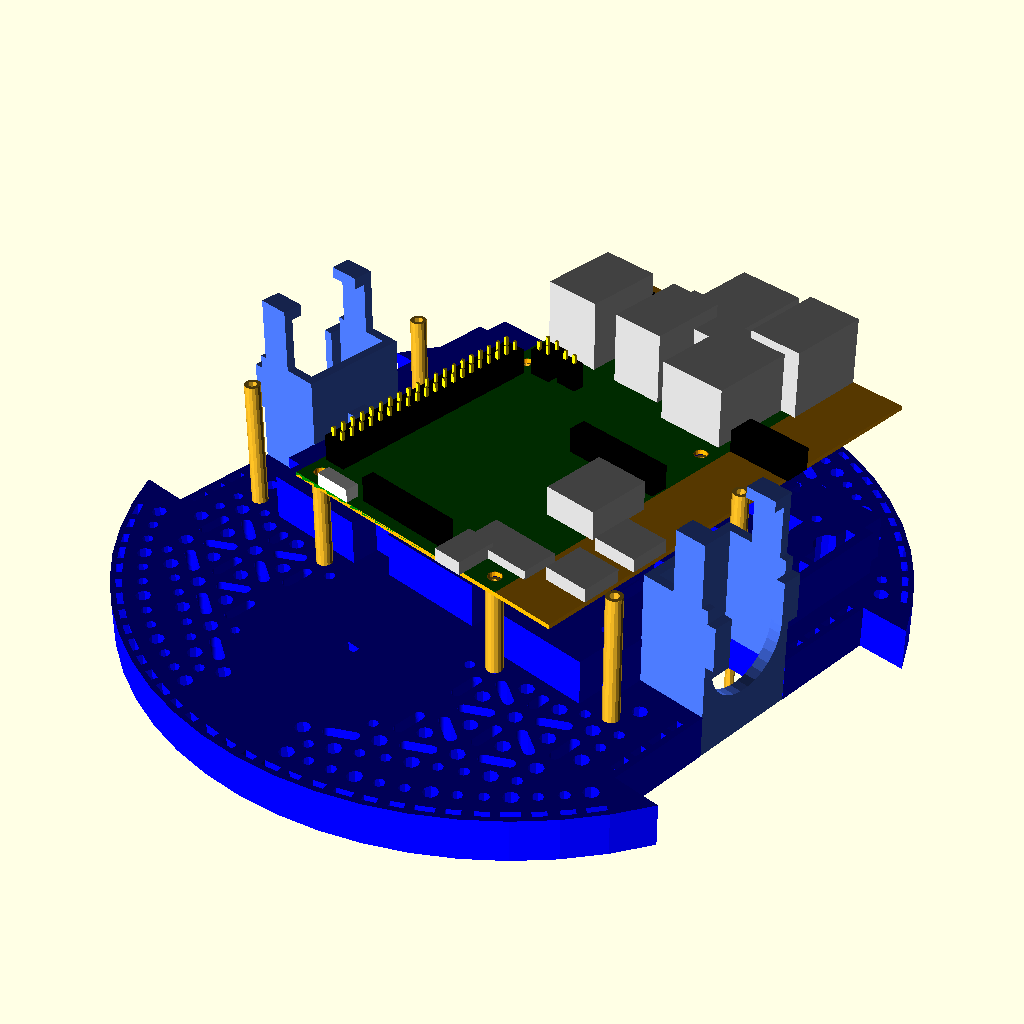
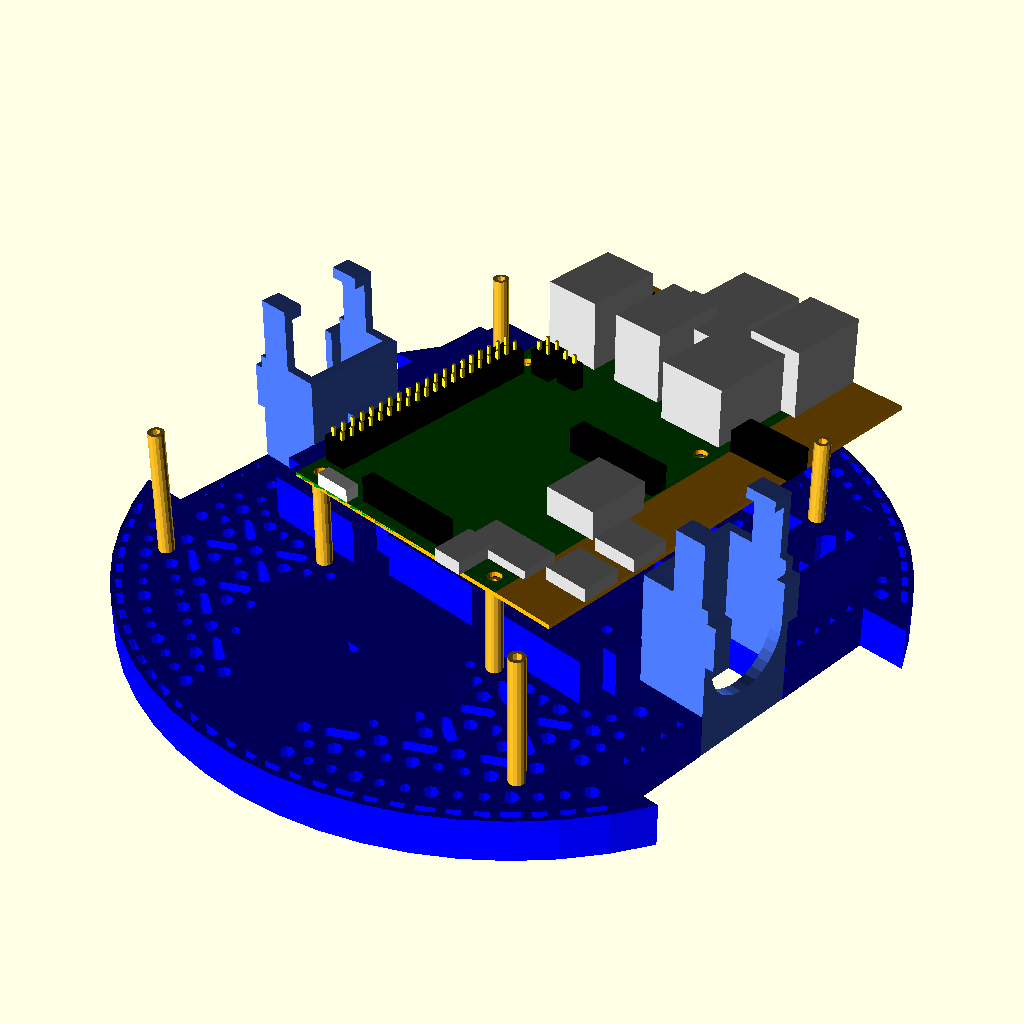
Updated hr2_models.py to add connectors for STLink module.

diff --git a/mechanical/scad_models/hr2_models.py b/mechanical/scad_models/hr2_models.py
@@ -2,10 +2,6 @@
 
 """Code genarates an OpenSCAD model for HR2 (HBRC ROS Robot)."""
 
-# Pumpkin Pi: 104mm x 70mm.  Holes are the same as the Raspberry Pi with the upper left
-# hole in the upper left corner of the PCB.  The extra PCB space goes to the right and
-# down on the Pumpkin Pi.
-
 from scad_models.scad import (Color, Circle, CornerCube, Cylinder, If2D, Difference2D, KicadPcb,
                               LinearExtrude, Module2D, Module3D, P2D, P3D, Polygon, Rotate3D,
                               Scad2D, Scad3D, SimplePolygon, ScadProgram, Square,
@@ -666,17 +662,13 @@ class HR2NucleoAssembly:
 
     # HR2NucleoAssembly.__init__():
     def __init__(self, scad_program: ScadProgram, hr2_wheel_assembly: "HR2WheelAssembly",
-                 stlink: "STLink", nucleo144: "Nucleo144", master_board_z: float) -> None:
+                 nucleo144: "Nucleo144", master_board_z: float) -> None:
         """Initialize the HR2NucleoAssembly."""
         # Create *module*, append to *scad_program* and save into *hr2_nucleo_assembly*
         # (i.e. *self*):
-        stlink_use_module: UseModule3D = stlink.module.use_module_get()
-        translated_stlink: Translate3D = Translate3D("Translated STLink", stlink_use_module,
-                                                     P3D(0.0, -48.0, master_board_z - 8.00))
         module: Module3D = Module3D("HR2 Nucleo Assembly", [
             hr2_wheel_assembly.module.use_module_get(),
             nucleo144.module.use_module_get(),
-            translated_stlink,
         ])
         scad_program.append(module)
         # hr2_master_assembly: HR2MasterAssembly = self
@@ -781,10 +773,8 @@ class HR2Robot:
         hr2_wheel_assembly: HR2WheelAssembly = HR2WheelAssembly(scad_program,
                                                                 hr2_master_assembly, base_dxf)
 
-        stlink: STLink = STLink(scad_program)
         hr2_nucleo_assembly: HR2NucleoAssembly = HR2NucleoAssembly(scad_program,
                                                                    hr2_wheel_assembly,
-                                                                   stlink,
                                                                    nucleo144,
                                                                    master_board_z)
         hr2_arm_assembly: HR2ArmAssembly = HR2ArmAssembly(scad_program, hr2_nucleo_assembly,
@@ -1006,12 +996,12 @@ class Nucleo144:
         west_ground_connector: RectangularConnector
         east_ground_connector = RectangularConnector(scad_program, "East Ground Connector",
                                                      1, 2, 2.54, 2.79, male_pin_height=5.08,
-                                                     center=P3D(cn12_morpho_center_y,
+                                                     center=P3D(cn12_morpho_center_x,
                                                                 ground_south_y, 0.0),
                                                      pcb_polygon=pcb_polygon, is_top=False)
         west_ground_connector = RectangularConnector(scad_program, "West Ground Connector",
                                                      1, 2, 2.54, 2.79, male_pin_height=5.08,
-                                                     center=P3D(cn11_morpho_center_y,
+                                                     center=P3D(cn11_morpho_center_x,
                                                                 ground_south_y, 0.0),
                                                      pcb_polygon=pcb_polygon, is_top=False)
 
@@ -1541,6 +1531,16 @@ class MasterBoard:
                                           1.27, 8, P2D(pin_x, pin_y))
                 pcb_polygon.append(pin_hole)
 
+        # This is where we build the *STLink* board and associated connectors.
+        # All the work is done inside the *STLink* initializer.
+        st_link_offset: P3D = P3D(0.0, -45.0, pcb_bottom_z)
+        st_link_connectors: List[Scad3D] = []
+        st_link: STLink = STLink(scad_program, st_link_offset, pcb_polygon, st_link_connectors)
+        st_link_use_module: UseModule3D = st_link.module.use_module_get()
+        translated_st_link: Scad3D = Translate3D("Translated ST Link",
+                                                 st_link_use_module,
+                                                 st_link_offset + P3D(0.0, 0.0, -13.0))
+
         # We need to cut out the two slots needed for the two Raspberry Pi flex connectors:
         # The camera slot is 17mm x 2mm and it is centered at (45, 11.5) from the lower left corner.
         # The lcd slot is 5mm x 17mm and it is centered at (2.5, 19.5 + 17/2) from the lower left
@@ -1603,7 +1603,9 @@ class MasterBoard:
                                      nucleo144_spacers +
                                      arm_spacers +
                                      sonars +
+                                     st_link_connectors +
                                      [colored_pcb,
+                                      translated_st_link,
                                       receptacle_2x20.module.use_module_get(),
                                       north_morpho_connector.module.use_module_get(),
                                       south_morpho_connector.module.use_module_get()]))
@@ -4371,7 +4373,8 @@ class Spacer:
 class STLink:
     """Represents the STLink portion of a Nucleo144."""
 
-    def __init__(self, scad_program: ScadProgram) -> None:
+    def __init__(self, scad_program: ScadProgram, center: P3D,
+                 master_board_polygon: Polygon, master_board_connectors: List[Scad3D]) -> None:
         """Initialize the STLink object."""
         # The mechanical drawing in the Nucleo144 User Manual does not give very much dimensional
         # information.  So much of the numbers below are measured with calipers:
@@ -4391,7 +4394,7 @@ class STLink:
         # Create the exterior of the  PCB
         pcb_square: Square = Square("STLink Exterior Outline ",
                                     pcb_dx, pcb_dy, center=P2D(0.0, 0.0))
-        stlink_polygon: Polygon = Polygon("STLink PCB Polygon", [pcb_square], lock=False)
+        st_polygon: Polygon = Polygon("STLink PCB Polygon", [pcb_square], lock=False)
 
         # Create all of the connectors:
         degrees90: float = pi / 2.0
@@ -4411,75 +4414,168 @@ class STLink:
         cn3_pin1_y = cn2_pin1_y  # Visual inspection (pin 1 on top)
         print(f"jp1_pin1_x={jp1_pin1_x}")
 
-        # Create the *connectors* list:
-        cn2_connector: RectangularConnector
-        cn2_connector = RectangularConnector(scad_program, "CN2 GND Connector",
-                                             1, 2, 2.54, 2.54, 5.84,
-                                             center=P3D(cn2_pin1_x,
-                                                        cn2_pin1_y - 2.54 / 2.54, pcb_top_z),
-                                             pcb_polygon=stlink_polygon,
-                                             vertical_rotate=-degrees90)  # Pin 1 on top
-        cn6_connector: RectangularConnector
-        cn6_connector = RectangularConnector(scad_program, "CN6 SWD Connector",
-                                             1, 6, 2.54, 2.54, 5.84,
-                                             center=P3D(cn6_pin1_x,
-                                                        cn6_pin1_y - (5 * 2.54) / 2.0, pcb_top_z),
-                                             pcb_polygon=stlink_polygon,
-                                             vertical_rotate=-degrees90)  # Pin 1 on top
-        jp2_connector: RectangularConnector
-        jp2_connector = RectangularConnector(scad_program, "JP2 Connector",
-                                             1, 2, 2.54, 2.54, 5.84,
-                                             center=P3D(jp2_pin1_x,
-                                                        jp2_pin1_y + 2.54 / 2.0, pcb_top_z),
-                                             pcb_polygon=stlink_polygon,
-                                             vertical_rotate=degrees90)  # Pin 1 on bottom
-        cn4_connector: RectangularConnector
-        cn4_connector = RectangularConnector(scad_program, "CN4 Nucleo STLink Connector",
-                                             1, 4, 2.54, 2.54, 5.84,
-                                             center=P3D(cn4_pin1_x,
-                                                        cn4_pin1_y - (3 * 2.54) / 2.0, pcb_top_z),
-                                             pcb_polygon=stlink_polygon,
-                                             vertical_rotate=-degrees90)  # Pin 1 on top
-        cn5_connector: RectangularConnector
-        cn5_connector = RectangularConnector(scad_program, "CN5 TX RX Connector",
-                                             1, 2, 2.54, 2.54, 5.84,
-                                             center=P3D(cn5_pin1_x,
-                                                        cn5_pin1_y + 2.54 / 2.0, pcb_top_z),
-                                             pcb_polygon=stlink_polygon,
-                                             vertical_rotate=-degrees90)  # Pin 1 on top
-        jp1_connector: RectangularConnector
-        jp1_connector = RectangularConnector(scad_program, "JP1 Connector",
-                                             1, 2, 2.54, 2.54, 5.84,
-                                             center=P3D(jp1_pin1_x + 2.54 / 2.0,
-                                                        jp1_pin1_y, pcb_top_z),
-                                             pcb_polygon=stlink_polygon)  # Pin1 to left
+        # Create the *st_connectors*  and *mb_connectors* list:
+        # CN2:
+        st_cn2_connector: RectangularConnector
+        st_cn2_connector = RectangularConnector(scad_program, "ST CN2 GND Connector",
+                                                1, 2, 2.54, 2.54, 5.84,
+                                                center=P3D(cn2_pin1_x,
+                                                           cn2_pin1_y - 2.54 / 2.54,
+                                                           pcb_top_z),
+                                                insulation_color="Lime",
+                                                pcb_polygon=st_polygon,
+                                                vertical_rotate=-degrees90)  # Pin 1 on top
+        mb_cn2_connector: RectangularConnector
+        mb_cn2_connector = RectangularConnector(scad_program, "MB CN2 GND Connector",
+                                                1, 2, 8.50, 2.54, 0.0, is_top=False,
+                                                center=(center + P3D(cn2_pin1_x,
+                                                                     cn2_pin1_y - 2.54 / 2.54,
+                                                                     0.0)),
+                                                insulation_color="Gray",
+                                                pcb_polygon=master_board_polygon,
+                                                vertical_rotate=-degrees90)  # Pin 1 on top
+        master_board_connectors.append(mb_cn2_connector.module.use_module_get())
 
-        cn3_connector: RectangularConnector
-        cn3_connector = RectangularConnector(scad_program, "CN3 GND Connector",
-                                             1, 2, 2.54, 2.54, 5.84,
-                                             center=P3D(cn3_pin1_x,
-                                                        cn3_pin1_y - 2.54 / 2.54, pcb_top_z),
-                                             pcb_polygon=stlink_polygon,
-                                             vertical_rotate=-degrees90)  # Pin 1 on top
-        connectors: List[Scad3D] = [
-            cn2_connector.module.use_module_get(),
-            cn6_connector.module.use_module_get(),
-            jp2_connector.module.use_module_get(),
-            cn4_connector.module.use_module_get(),
-            cn5_connector.module.use_module_get(),
-            jp1_connector.module.use_module_get(),
-            cn3_connector.module.use_module_get(),
+        # CN6:
+        st_cn6_connector: RectangularConnector
+        st_cn6_connector = RectangularConnector(scad_program, "CN6 SWD Connector",
+                                                1, 6, 2.54, 2.54, 5.84,
+                                                center=P3D(cn6_pin1_x,
+                                                           cn6_pin1_y - (5 * 2.54) / 2.0,
+                                                           pcb_top_z),
+                                                insulation_color="Lime",
+                                                pcb_polygon=st_polygon,
+                                                vertical_rotate=-degrees90)  # Pin 1 on top
+        mb_cn6_connector: RectangularConnector
+        mb_cn6_connector = RectangularConnector(scad_program, "MB CN6 SWD Connector",
+                                                1, 6, 8.50, 2.54, 0.0, is_top=False,
+                                                center=(center + P3D(cn6_pin1_x,
+                                                                     cn6_pin1_y - (5 * 2.54) / 2.0,
+                                                                     0.0)),
+                                                insulation_color="Gray",
+                                                pcb_polygon=master_board_polygon,
+                                                vertical_rotate=-degrees90)  # Pin 1 on top
+        master_board_connectors.append(mb_cn6_connector.module.use_module_get())
+
+        # JP2:
+        st_jp2_connector: RectangularConnector
+        st_jp2_connector = RectangularConnector(scad_program, "JP2 Connector",
+                                                1, 2, 2.54, 2.54, 5.84,
+                                                center=P3D(jp2_pin1_x,
+                                                           jp2_pin1_y + 2.54 / 2.0, pcb_top_z),
+                                                insulation_color="Lime",
+                                                pcb_polygon=st_polygon,
+                                                vertical_rotate=degrees90)  # Pin 1 on bottom
+        mb_jp2_connector: RectangularConnector
+        mb_jp2_connector = RectangularConnector(scad_program, "MB JP2 Connector",
+                                                1, 2, 8.50, 2.54, 5.84, is_top=False,
+                                                center=(center + P3D(jp2_pin1_x,
+                                                                     jp2_pin1_y + 2.54 / 2.0,
+                                                                     0)),
+                                                insulation_color="Gray",
+                                                pcb_polygon=master_board_polygon,
+                                                vertical_rotate=degrees90)  # Pin 1 on bottom
+        master_board_connectors.append(mb_jp2_connector.module.use_module_get())
+
+        # CN4:
+        st_cn4_connector: RectangularConnector
+        st_cn4_connector = RectangularConnector(scad_program, "CN4 Nucleo STLink Connector",
+                                                1, 4, 2.54, 2.54, 0.0,
+                                                center=P3D(cn4_pin1_x,
+                                                           cn4_pin1_y - (3 * 2.54) / 2.0,
+                                                           pcb_top_z),
+                                                insulation_color="Lime",
+                                                pcb_polygon=st_polygon,
+                                                vertical_rotate=-degrees90)  # Pin 1 on top
+        mb_cn4_connector: RectangularConnector
+        mb_cn4_connector = RectangularConnector(scad_program, "MB CN4 Nucleo STLink Connector",
+                                                1, 4, 8.50, 2.54, 5.84, is_top=False,
+                                                center=(center + P3D(cn4_pin1_x,
+                                                                     cn4_pin1_y - (3 * 2.54) / 2.0,
+                                                                     0.0)),
+                                                insulation_color="Gray",
+                                                pcb_polygon=master_board_polygon,
+                                                vertical_rotate=-degrees90)  # Pin 1 on top
+        master_board_connectors.append(mb_cn4_connector.module.use_module_get())
+
+        # CN5:
+        st_cn5_connector: RectangularConnector
+        st_cn5_connector = RectangularConnector(scad_program, "CN5 TX RX Connector",
+                                                1, 2, 2.54, 2.54, 5.84,
+                                                center=P3D(cn5_pin1_x,
+                                                           cn5_pin1_y + 2.54 / 2.0, pcb_top_z),
+                                                insulation_color="Lime",
+                                                pcb_polygon=st_polygon,
+                                                vertical_rotate=-degrees90)  # Pin 1 on top
+        mb_cn5_connector: RectangularConnector
+        mb_cn5_connector = RectangularConnector(scad_program, "MB CN5 TX RX Connector",
+                                                1, 2, 8.50, 2.54, 0, is_top=False,
+                                                center=(center + P3D(cn5_pin1_x,
+                                                                     cn5_pin1_y + 2.54 / 2.0,
+                                                                     0.0)),
+                                                insulation_color="Gray",
+                                                pcb_polygon=master_board_polygon,
+                                                vertical_rotate=-degrees90)  # Pin 1 on top
+        master_board_connectors.append(mb_cn5_connector.module.use_module_get())
+
+        # JP1:
+        st_jp1_connector: RectangularConnector
+        st_jp1_connector = RectangularConnector(scad_program, "JP1 Connector",
+                                                1, 2, 2.54, 2.54, 5.84,
+                                                center=P3D(jp1_pin1_x + 2.54 / 2.0,
+                                                           jp1_pin1_y, pcb_top_z),
+                                                insulation_color="Lime",
+                                                pcb_polygon=st_polygon)  # Pin1 to left
+        mb_jp1_connector: RectangularConnector
+        mb_jp1_connector = RectangularConnector(scad_program, "MB JP1 Connector",
+                                                1, 2, 8.50, 2.54, 0.0, is_top=False,
+                                                center=(center + P3D(jp1_pin1_x + 2.54 / 2.0,
+                                                                     jp1_pin1_y,
+                                                                     0.0)),
+                                                insulation_color="Gray",
+                                                pcb_polygon=master_board_polygon)  # Pin1 to left
+        master_board_connectors.append(mb_jp1_connector.module.use_module_get())
+
+        # CN3:
+        st_cn3_connector: RectangularConnector
+        st_cn3_connector = RectangularConnector(scad_program, "CN3 GND Connector",
+                                                1, 2, 2.54, 2.54, 5.84,
+                                                center=P3D(cn3_pin1_x,
+                                                           cn3_pin1_y - 2.54 / 2.54, pcb_top_z),
+                                                insulation_color="Lime",
+                                                pcb_polygon=st_polygon,
+                                                vertical_rotate=-degrees90)  # Pin 1 on top
+        mb_cn3_connector: RectangularConnector
+        mb_cn3_connector = RectangularConnector(scad_program, "MB CN3 GND Connector",
+                                                1, 2, 8.50, 2.54, 0.0, is_top=False,
+                                                center=(center + P3D(cn3_pin1_x,
+                                                                     cn3_pin1_y - 2.54 / 2.54,
+                                                                     0.0)),
+                                                insulation_color="Gray",
+                                                pcb_polygon=master_board_polygon,
+                                                vertical_rotate=-degrees90)  # Pin 1 on top
+        master_board_connectors.append(mb_cn3_connector.module.use_module_get())
+
+        st_connectors: List[Scad3D] = [
+            st_cn2_connector.module.use_module_get(),
+            st_cn6_connector.module.use_module_get(),
+            st_jp2_connector.module.use_module_get(),
+            st_cn4_connector.module.use_module_get(),
+            st_cn5_connector.module.use_module_get(),
+            st_jp1_connector.module.use_module_get(),
+            st_cn3_connector.module.use_module_get(),
         ]
-        connectors = connectors
 
-        # Lockup *stlink_polygon* make it viewable in OpenScad:
-        stlink_polygon_module: Module2D = Module2D("STLink PCB Module", [stlink_polygon])
+        # Lockup *st_polygon* make it viewable in OpenScad:
+        st_polygon.lock()
+        stlink_polygon_module: Module2D = Module2D("STLink PCB Module", [st_polygon])
         scad_program.if2d.name_match_append("stlink_pcb", stlink_polygon_module, ["STLInk PCB"])
         scad_program.append(stlink_polygon_module)
 
         extruded_pcb: LinearExtrude = LinearExtrude("Extruded STLink PCB", pcb_square, pcb_dz)
-        colored_pcb: Scad3D = Color("While STLink PCB", extruded_pcb, "White")
-        module: Module3D = Module3D("STLink", [colored_pcb] + connectors)
+        colored_pcb: Color = Color("While STLink PCB", extruded_pcb, "White")
+        rotated_pcb: Scad3D = Rotate3D("Roated STLink", colored_pcb, pi, P3D(1.0, 0.0, 0.0))
+        module: Module3D = Module3D("STLink", [rotated_pcb] + st_connectors)
         scad_program.append(module)
         scad_program.if3d.name_match_append("stlink", module, ["STLink"])
         self.module: Module3D = module
@@ -4534,7 +4630,7 @@ class SRF02:
 
 def main() -> int:  # pragma: no cover
     """Generate the openscand file."""
-    # print("romi_model.main() called")
+    print("hr2_models.main() called")
     # scad_file: IO[Any]
     # with open("romi_base_dxf.scad", "w") as scad_file:
     #     romi_base_polygon.scad_file_write(scad_file)
@@ -4551,7 +4647,7 @@ def main() -> int:  # pragma: no cover
     # Define the default value for the *name* OpenSCAD variable.  The *name* variable
     # can be set from the command line as shown below:
     #
-    #     openscad -D 'name="VALID_NAME"' scad_models.scad
+    #     openscad -D 'name="VALID_NAME"' hr2_models.scad
     #
     # The list of *VALID_NAME*'s can be found near the bottom of `README.md`.
     scad_program.append(Variable2D("Name", "name", '"hr_robot"'))
@@ -4582,13 +4678,13 @@ def main() -> int:  # pragma: no cover
     hr2_robot: HR2Robot = HR2Robot(scad_program)
     hr2_robot = hr2_robot
 
-    # Generate `scad_models.scad`:
+    # Generate `hr2_models.scad`:
     scad_lines: List[str] = []
     scad_program.scad_lines_append(scad_lines, "")
     scad_lines.append("")
     scad_text: str = '\n'.join(scad_lines)
     scad_file: IO[Any]
-    with open("scad_models.scad", "w") as scad_file:
+    with open("hr2_models.scad", "w") as scad_file:
         scad_file.write(scad_text)
 
     # Update the `README.md` file:
@@ -4602,3 +4698,7 @@ def main() -> int:  # pragma: no cover
             read_me_file.write(updated_read_me_text)
 
     return 0
+
+
+if __name__ == "__main__":
+    main()
